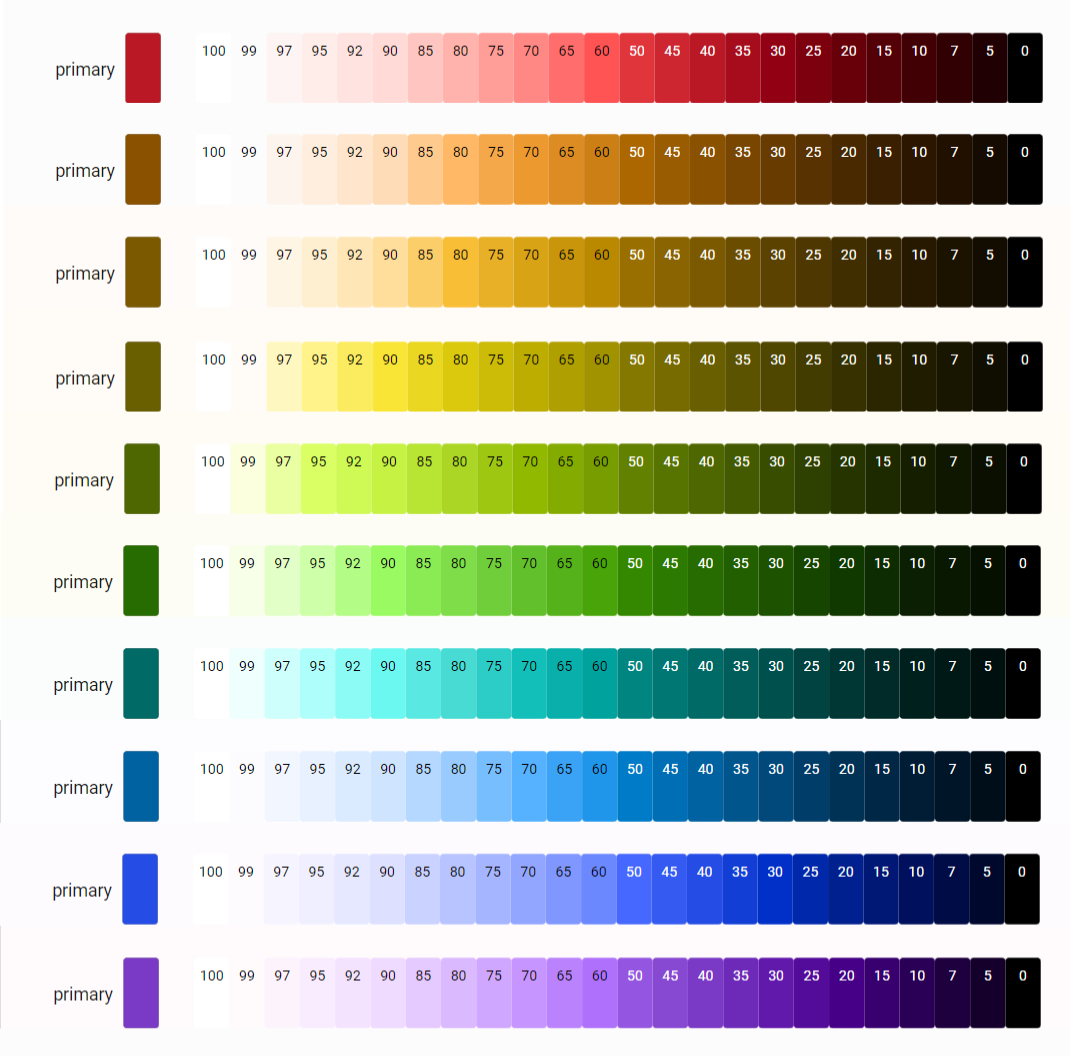
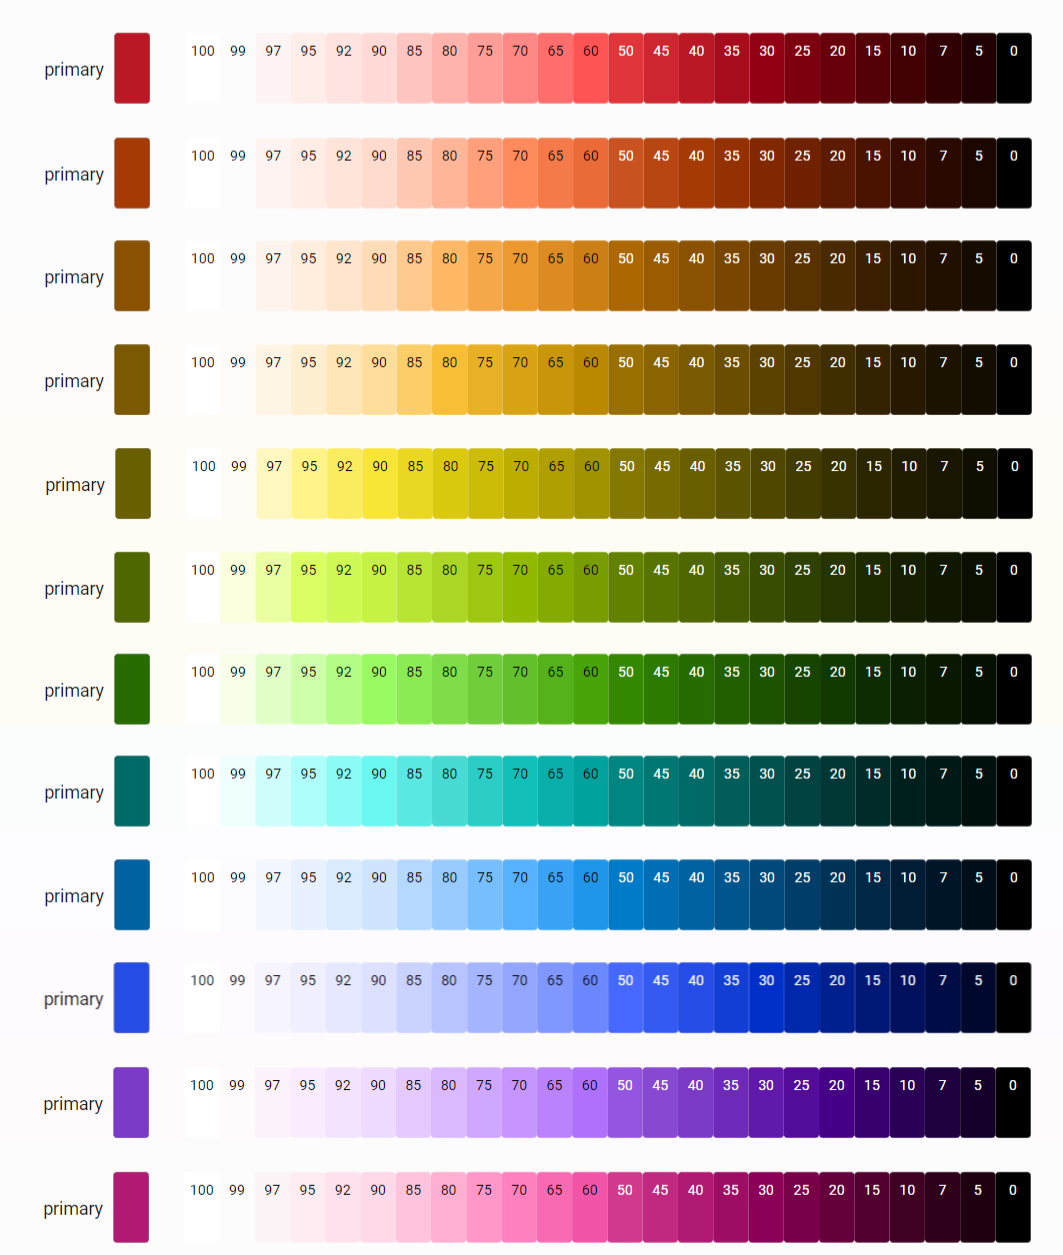
Update analysis with HCT ;-)

diff --git a/docs/basics/m3-analysis-palettes.md b/docs/basics/m3-analysis-palettes.md
@@ -12,13 +12,9 @@ As Google says:
 
     Combining color based on tonality, rather than hex value or hue, is one of the key systems that make any color output accessible. Products using dynamic color will meet requirements because the algorithmic combinations that an end-user can experience are designed to meet accessibility standards.
 
-So if Material 3 emphasizes that it uses tonality, in other words _lightness_ as the key value to create a tone palette, it is clear that Material 3 does NOT use sRGB or sRGB-hsl to calculate the tonal steps.
+As HCT uses the CIE-L\* colorspace for lightness, lets see if what that does with a generated tonal palette.
 
-But what then?
-
-Enter the CIE-L* colorspace!
-
-##:material-home-floor-3: CIE L* colorspaces...
+##:material-home-floor-3: CIE L* lightness check...
 
 The CIE L\* colorspace aims to show colors as the human eye perceives colors and lightness. Within that space, there are different methods like CIE-Lab + CIE-Lch(ab) and CIE-Luv + CIE-Lch(cv).
 
@@ -44,12 +40,7 @@ _Color conversion using CIE-Lab_
 
 We see an exact match between the Material 3 lightness and the CIE-Lch(ab) lightness value for primary, secondary and tertiary color palettes.
 
-!!! Success "Material 3 is using the CIE-L* colorspace to determine tonal palettes"
-
-But which one to use? According to the specifications, CIE-Lch(uv) is much more suitable for our situation, as it:
-
-- CIE-Lch(uv) is meant for computer screens
-- CIE-Lch(uv)'s color wheel is better distributed than CIE-Lch(ab) for colors.
+!!! Success "Material 3 is using the CIE-L* colorspace to determine the lightness for tonal palettes"
 
 So. Lets take a look at the primary, secondary and tertiary palettes. Can we make sense of them?
 
@@ -61,8 +52,9 @@ Lets do some observations, and look at the primary palette first!
 
 Below you can see all primary pallets from the "custom" color examples. Please note that all x2%, x5% (except 95%) and x7% values do not belong to the original Material 3 palette, but were added by me to have more tonal steps to work with.
 
-Some noticable things:
+Some noticable things from right to left:
 
+- Some colors have less color in the darker area's than other colors: the red/blue/magenta show more color in darker tones than yellow/lime/green/cyan.
 - There is a clear "break" visible at the 50%/60% tones: exactly the boundary between the dark and the light tones
 - Another "break" is visible in many of the palettes between 80% and 90% (85% was added by me). 
 - Some of the colors are very colorfull in the high lightness parts (say above 90%), and other are not. Especially the yellow, limegreen/green and cyan stand out.
@@ -72,14 +64,18 @@ Some noticable things:
 
 And that is to be expected, as these colors can have more color with high lightness values in the sRGB space when translated from CIE-L\* space than the others. 
 
-The following example from the hsluv site shows this effect: just look at the H (hue) slider: yellow, green and cyan are clearly more colorful than any other color at 100% saturation! Blue, purple and magenta are much more subdued.
+The following example shows this effect: yellow, green and cyan are clearly more colorful than any other color at higher lightness! Blue, purple, magenta and red are much more subdued. The reverse is also valid: blue, purple, magenta and red are much more vibrant in darker tones.
+<br>Notice that dark orange with high color doesn't exist: it turns into brown!
 
-![hsluv-l90-example-png]
+![lch-lightness-examples-png]
 
 !!! Success "Material 3 is palette calculations are again clearly using CIE-L*, but does NOT compensate for the colorful colors in the high lightness parts"
 
 
 ###:material-home-floor-3: Experiment 2: what about palette hue?
+
+As I couldn't find an CAM16 table, I'm using CIE-Lch(ab) and CIE-Lch(uv) to check the hue values with different lightness.
+
 If we look at the next table, we can see that Material 3 is not only varying lightness for the tonal palette, but also varying both chroma and hue. As we have learnt from the above observation, keeping hue stable in the high lightness parts is difficult.
 
 _Color conversion using CIE-L*_
@@ -102,8 +98,8 @@ Looking at the remarks at the [CIELab site][cielab-io-url], the relation between
 
 !!! Quote "Usually, you want shades to have roughly the same hue. That way, shades don't seem to "drift" into a different color"
 
-!!! Success "Material 3 is palette calculations are doing their best to balance hue, lightness and colorfulness"
-    It remains unknown to me (with my knowledge) if Material is using CIE-Lab or CIE-Luv to create the palettes...
+!!! Success "Material 3 HCT palette calculations are doing their best to balance hue, lightness and colorfulness"
+    CAM16 seems to do a wonderful job!
 
 ##:material-home-floor-3: Secondary and Tertiary palette
 
@@ -111,6 +107,7 @@ For starters, the "normal" way to choose a secondary or tertiary color is to mov
 
 ###:material-home-floor-3: Experiment 3: Can we make sense of secondary and tertiary colors?
 
+<!--
 The table below shows colors from 6 examples and the difference in degrees for the hues in both CIE-Lch(ab) and CIE-Lch(uv) space
 
 _Color conversion using CIE-Lab_ (conversions using https://www.easyrgb.com/en/convert.php#inputFORM)
@@ -197,7 +194,7 @@ Hmmm. Not more than an indication that there is a certain consistancy in the "di
 
 !!! Fail "It remains unknown how Material 3 is calculating secondary and tertiary colors on the CIE-Lch(\*) color wheel"
     Other people wil do this in the future I guess, as that happened also for Material 2!
-
+-->
 <!--
 #### Last experiment
 The steps are only a rough approximation, so let's calculate the size and percentage for each part of the color wheel using the min/max values of each part:
@@ -257,7 +254,9 @@ For the secondary color I have no idea, because the direction is to the right in
 
 [all-primary-palettes-png]: ../assets/screenshots/all-primary-palettes.png
 
-[hsluv-l90-example-png]: ..//assets/screenshots/hsluv-l90-example.png
+[hsluv-l90-example-png]: ../assets/screenshots/hsluv-l90-example.png
+
+[lch-lightness-examples-png]: ../assets/screenshots/lch-lightness-examples.png
 
 [ndb-HSV-LCh-max-sat-color-palettes-png]: ../assets/screenshots/HSV-LCh-max-sat-color-palettes.png
 [ndb-color-names-LCh-hues-png]: ../assets/screenshots/color-names-LCh-hues.png

diff --git a/docs/basics/m3-analysis-hue-picker.md b/docs/basics/m3-analysis-hue-picker.md
@@ -2,7 +2,8 @@
 template: overrides/main.html
 ---
 
-The Figma Material Theme Builder offers both dynamic color based primary color picking as custom color picking. So let's see what they do!
+Google offers the free Material Theme Builder plugin on its Figma platform.
+<br>This builder offers both dynamic color based primary color picking as custom color picking. So let's see what they do!
 
 ###:material-home-floor-3: Dynamic color
 
@@ -34,7 +35,7 @@ Converting the colors to CIE-Lch(ab) (Lightness, Chroma, Hue) using [ColorMine][
 | middle| \#2d3945 | 23,38 | 9,14 | **260,29** | **284,36** |
 | left | \#aaadb2 | 70,63 | 2,93 | **268,29** | **284,36** |
 
-!!! Success "Material 3 is NOT using the exact hue from the example, but definately using some secret color-fu"
+!!! Success "Material 3 is NOT using the exact hue from the example, but definately using some HCT-fu here"
     This at least explains the fact that I was sometimes not seeing any change in the color palettes!
 
 ###:material-home-floor-3: Custom color
@@ -59,7 +60,7 @@ _Color conversion using CIE-Luv_
 | C7, Green | #73d13d <!--115,209,61--> | lch(75.81, 92.48, **119.67**)| #276c00 | lch( 39.84, 56.92, **122.67**) |
 | C9, Blue | #40a9ff <!--64,169,255--> | lch(67.03, 90.63, **245.90**) | #0062a1 | lch(40.09, 63.78, **247.40**) |
 
-So the short answer is NO: Material 3 does NOT use its own color. On the other hand, the differences in CIE-Lch(ab) and CIE-Lch(uv) values seem small. But what if I keep the lc part of the lch value and use the primary h value to recalculate the input color?
+So the short answer is NO: Material 3 does NOT exactly use YOUR custom color. On the other hand, the differences in CIE-Lch(ab) and CIE-Lch(uv) values seem small. But what if I keep the lc part of the lch value and use the primary h value to recalculate the input color?
 
 Taking the last example: Blue with `rgb(64, 169, 255)` becomes `rgb(76, 168, 255)`: In other words, MORE red, slightly less green, and no difference in blue.
 
@@ -70,8 +71,9 @@ On the left, the custom color, and on the right the extracted source color:
   <rect x="200" y="10"height="80" width="150" rx="0" fill="rgb(76, 168, 255)" stroke="var(--md-primary-fg-color--dark)" stroke-width="2"/>
 </svg>
 
-!!! Success "Material 3 is NOT using the exact hue from your custom color input, but again some secret color-fu"
-    The WHY remains unknown, but the difference is not that noticable...
+!!! Success "Material 3 is NOT using the exact hue from your custom color input, but again some HCT-fu"
+    The WHY remains unknown (haven't checked the sources at this moment), but the difference is not that noticable...
+
 <!--- References to pictures... --->
 
 [mtb-blue-1-png]: ../assets/screenshots/material-theme-builder-blue.png

diff --git a/docs/basics/m3-analysis-introduction.md b/docs/basics/m3-analysis-introduction.md
@@ -2,7 +2,7 @@
 template: overrides/main.html
 ---
 
-##:material-home-floor-3: Material 3 analyzed...
+##:material-home-floor-3: Material 3 analyzed!
 
 This chapter is about some experiments to see if I can understand how Material 3 works and if it does what it promises.
 
@@ -13,3 +13,32 @@ From the examples, I can definitely conclude that all themes with different colo
 But then again, it raised enough questions about what Material 3 does in some cases.
 
 Read on, if you're interested :smile:
+
+##:material-home-floor-3: But before, that, the basis of Material 3...
+
+<!-- https://bootcamp.uxdesign.cc/perception-based-color-palettes-for-customizable-ui-themes-33f596faf23d -->
+
+With Material 3 for Android 12 a new color system, called [HCT (hue, chroma (= colorfulness), tone)][m3-hct-source-url] is introduced. A color system system built using CAM16 hue and chroma, and L\* from CIE-Lab.
+
+The lightness in CIE-Lab is in line with human perception. If L\* is 0, the value corresponds to black and 100 to white, allowing for very accurate color tones. By using L\*, a link is also made between the color system, the contrast and thus the accessibility. The difference in contrast between background and foreground is one of the most important factors in the [WCAG guidelines][wcag-guidelines-url].
+
+Where the contrast ratio is non-linear, CIE-L\* is. This means that HCT can simply use differences to guarantee the contrast ratio: a difference of 40 in HCT tone guarantees a contrast ratio >= 3.0, and a difference of 50 guarantees a contrast ratio >= 4.5.
+
+Below you see 2 examples on why CAM16 is such a great system regarding colors linearity and distribution:
+
+![colorio-hue-linearity-ebner-fairchild-png]
+
+![colorio-munsell-lightness-png]
+
+(screenshots taken from [Colorio README][colorio-readme-url])
+
+<!--- References to pictures... --->
+
+[colorio-hue-linearity-ebner-fairchild-png]: ../assets/screenshots/colorio-hue-linearity-ebner-fairchild.png
+[colorio-munsell-lightness-png]: ../assets/screenshots/colorio-munsell-lightness.png
+
+<!--- External links... --->
+
+[m3-hct-source-url]: https://github.com/material-foundation/material-color-utilities/blob/main/typescript/hct/hct.ts
+[wcag-guidelines-url]: https://www.w3.org/WAI/standards-guidelines/wcag/
+[colorio-readme-url]: https://github.com/nschloe/colorio/blob/main/README.md

diff --git a/docs/design/convert-ha-theme.md b/docs/design/convert-ha-theme.md
@@ -4,3 +4,19 @@ template: overrides/main.html
 
 
 ##:material-home-floor-3: From zipped file to working theme!
+
+- Export DSP (button is only available from custom tab for some reason...)
+
+###Using SAK to convert the tokens...
+
+- Get the `tokens.json` from `material\theme\data` folder inside the zip file.
+- Add to `m3.yaml` and save.
+- Select the converter view
+- Hit ctrl-F5 to refresh/reload HA. This includes the `m3.yaml` template.
+- Check the Chrome console for the output of the converter
+- You can see a large block, with a "copy" button as the list is long (thank you Chrome for this!)
+- Copy the translated theme definitions into the theme and save.
+- Reload HA themes 
+- And now you can select the newly created theme!
+
+

diff --git a/docs/design/introduction.md b/docs/design/introduction.md
@@ -1,9 +1,14 @@
 ---
 template: overrides/main.html
 ---
+\#TODO
 
 ##:material-home-floor-3: Where to start?
 So, you came here to read how to design your own theme. That's good!
+
+- Free Figma account
+- Install Material Theme Builder plugin
+
 
 <!---
 
